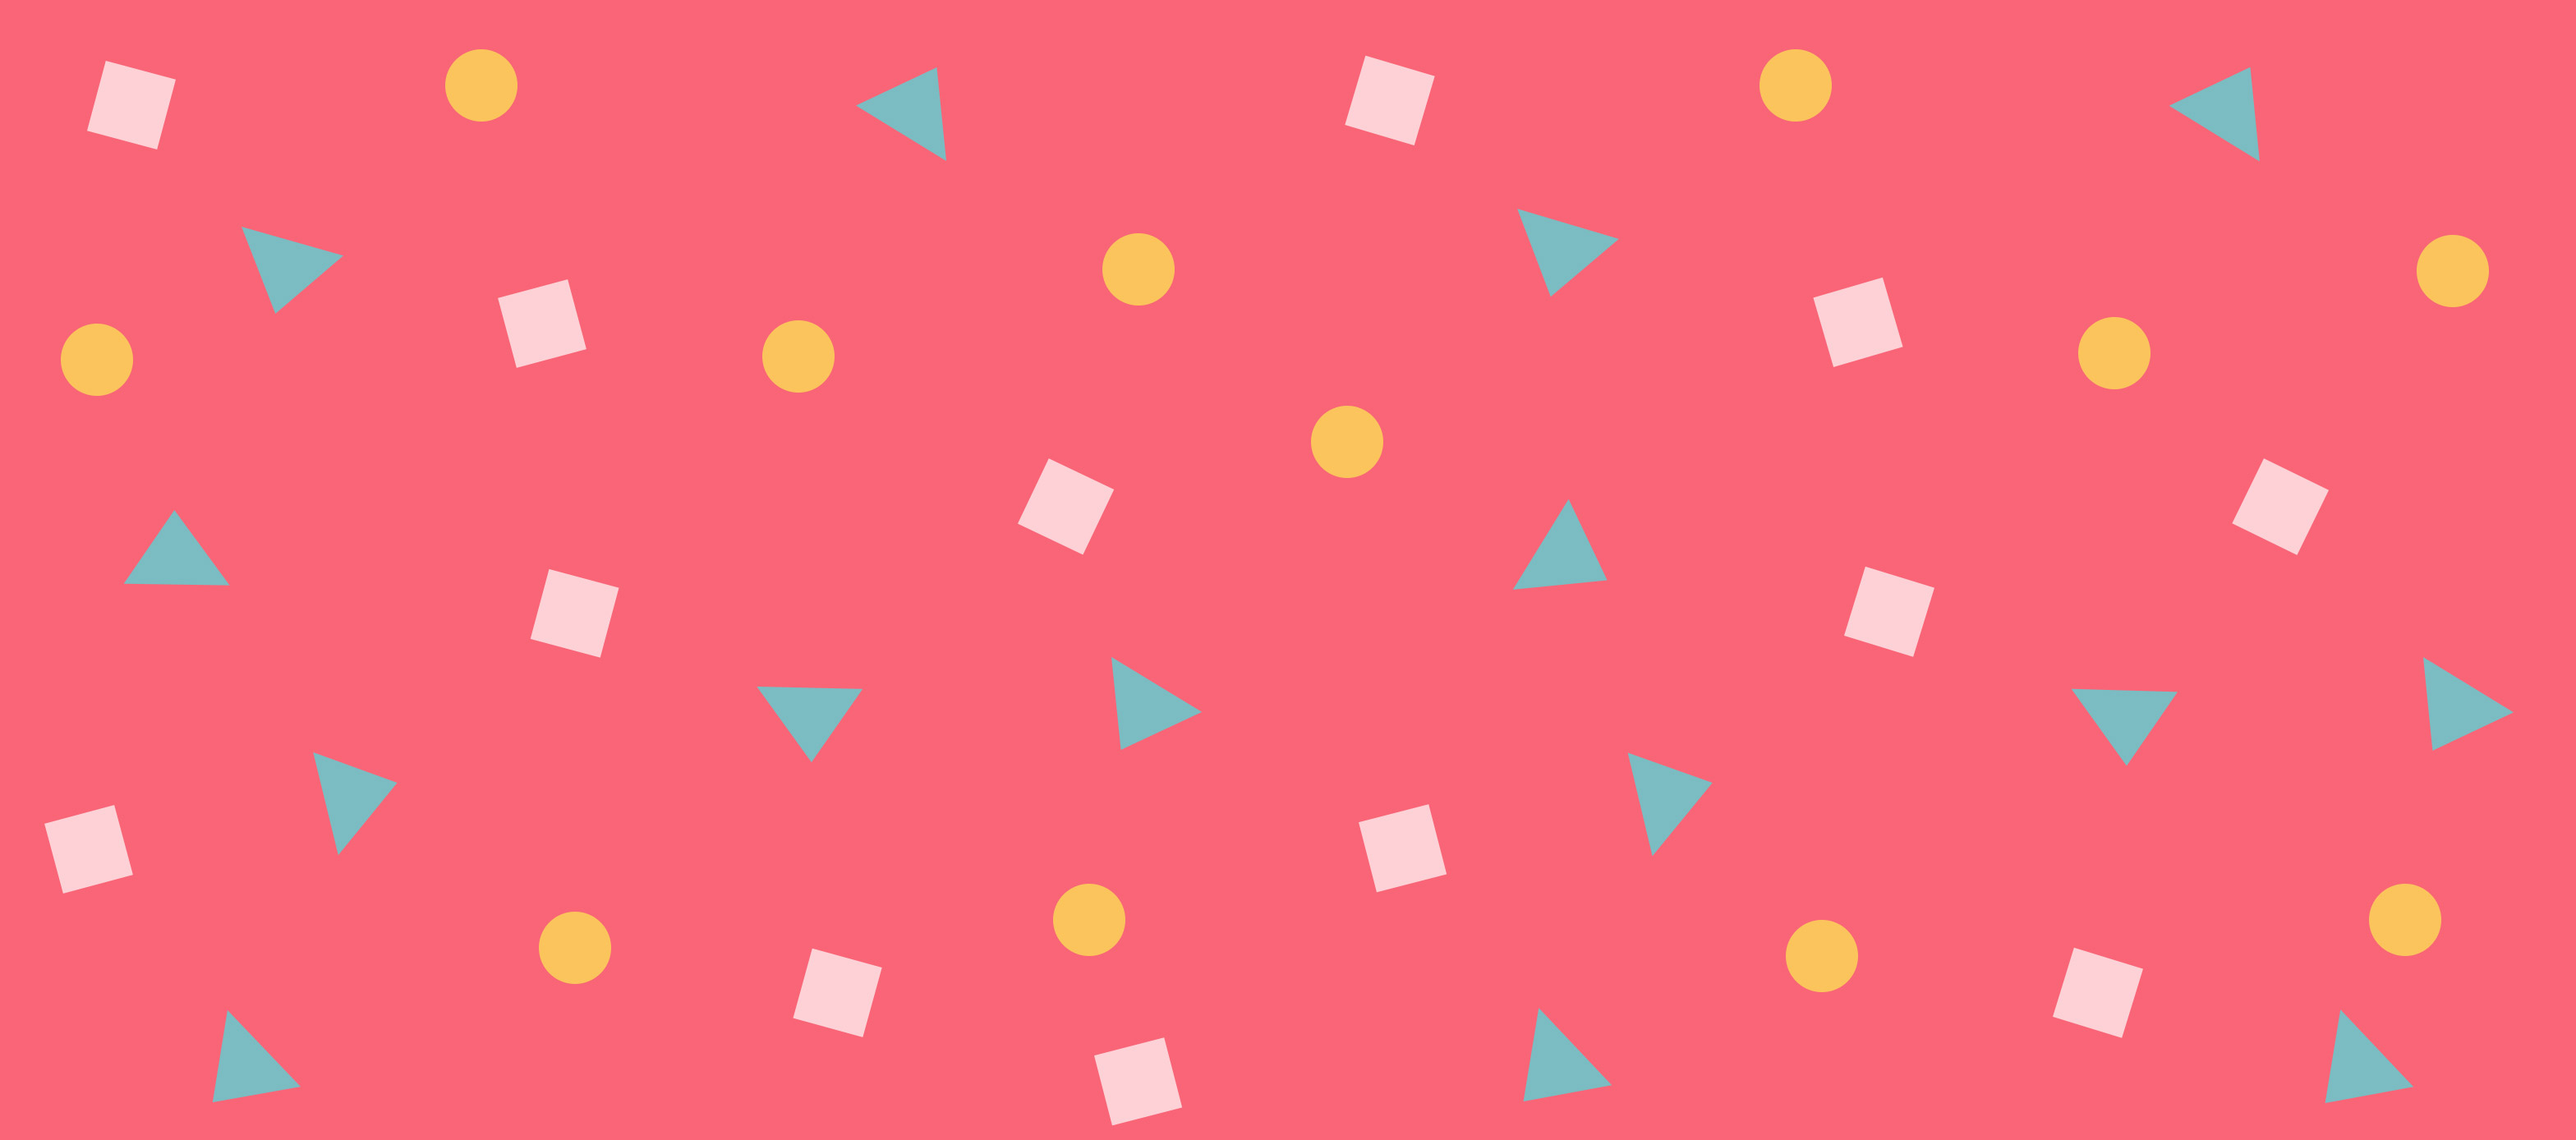
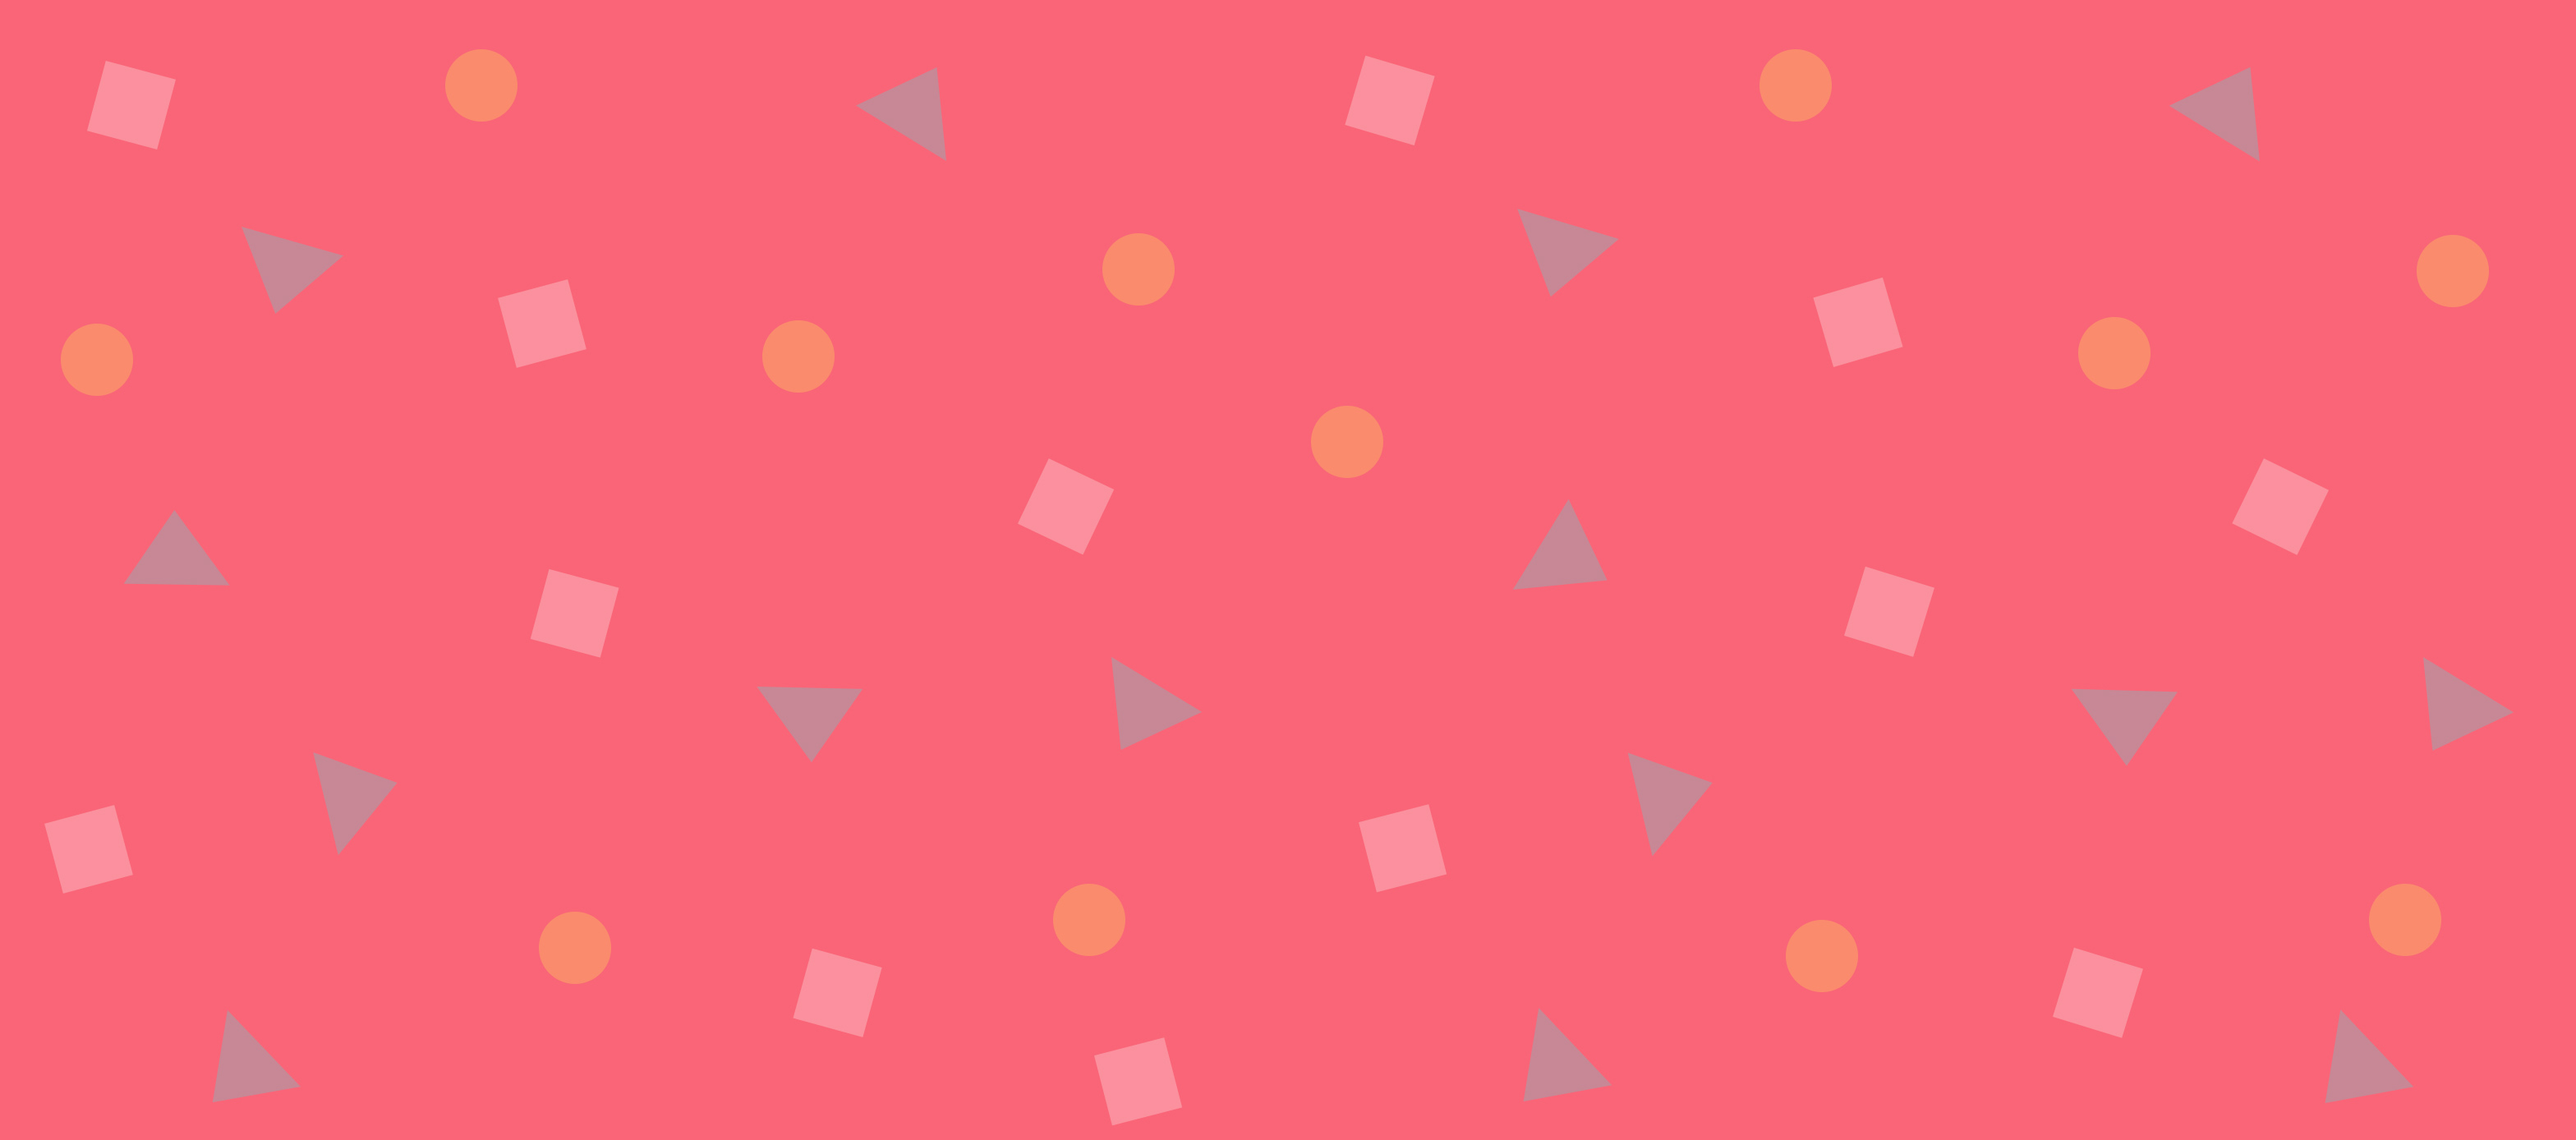
Updating newsletter image background

diff --git a/style.css b/style.css
@@ -200,8 +200,9 @@ body {
   background-repeat: repeat;
   background-attachment: fixed;
   background-image: url(images/bg-newsletter@2x.jpg);
-  background-size: 784px 347px;
-  background-size: 60% auto; }
+  background-size: 784px 347px; }
+  .newsletter:before {
+    opacity: 0.5; }
 
 .blog .newsletter {
   margin-top: 20px; }

diff --git a/styles/global/_global.scss b/styles/global/_global.scss
@@ -224,7 +224,11 @@ body {
   background-attachment: fixed;
   background-image: url(images/bg-newsletter@2x.jpg);
   background-size: 784px 347px;
-  background-size: 60% auto;
+  //background-size: 60% auto;
+
+  &:before {
+    opacity: 0.5;
+  }
 }
 
 .blog .newsletter {
